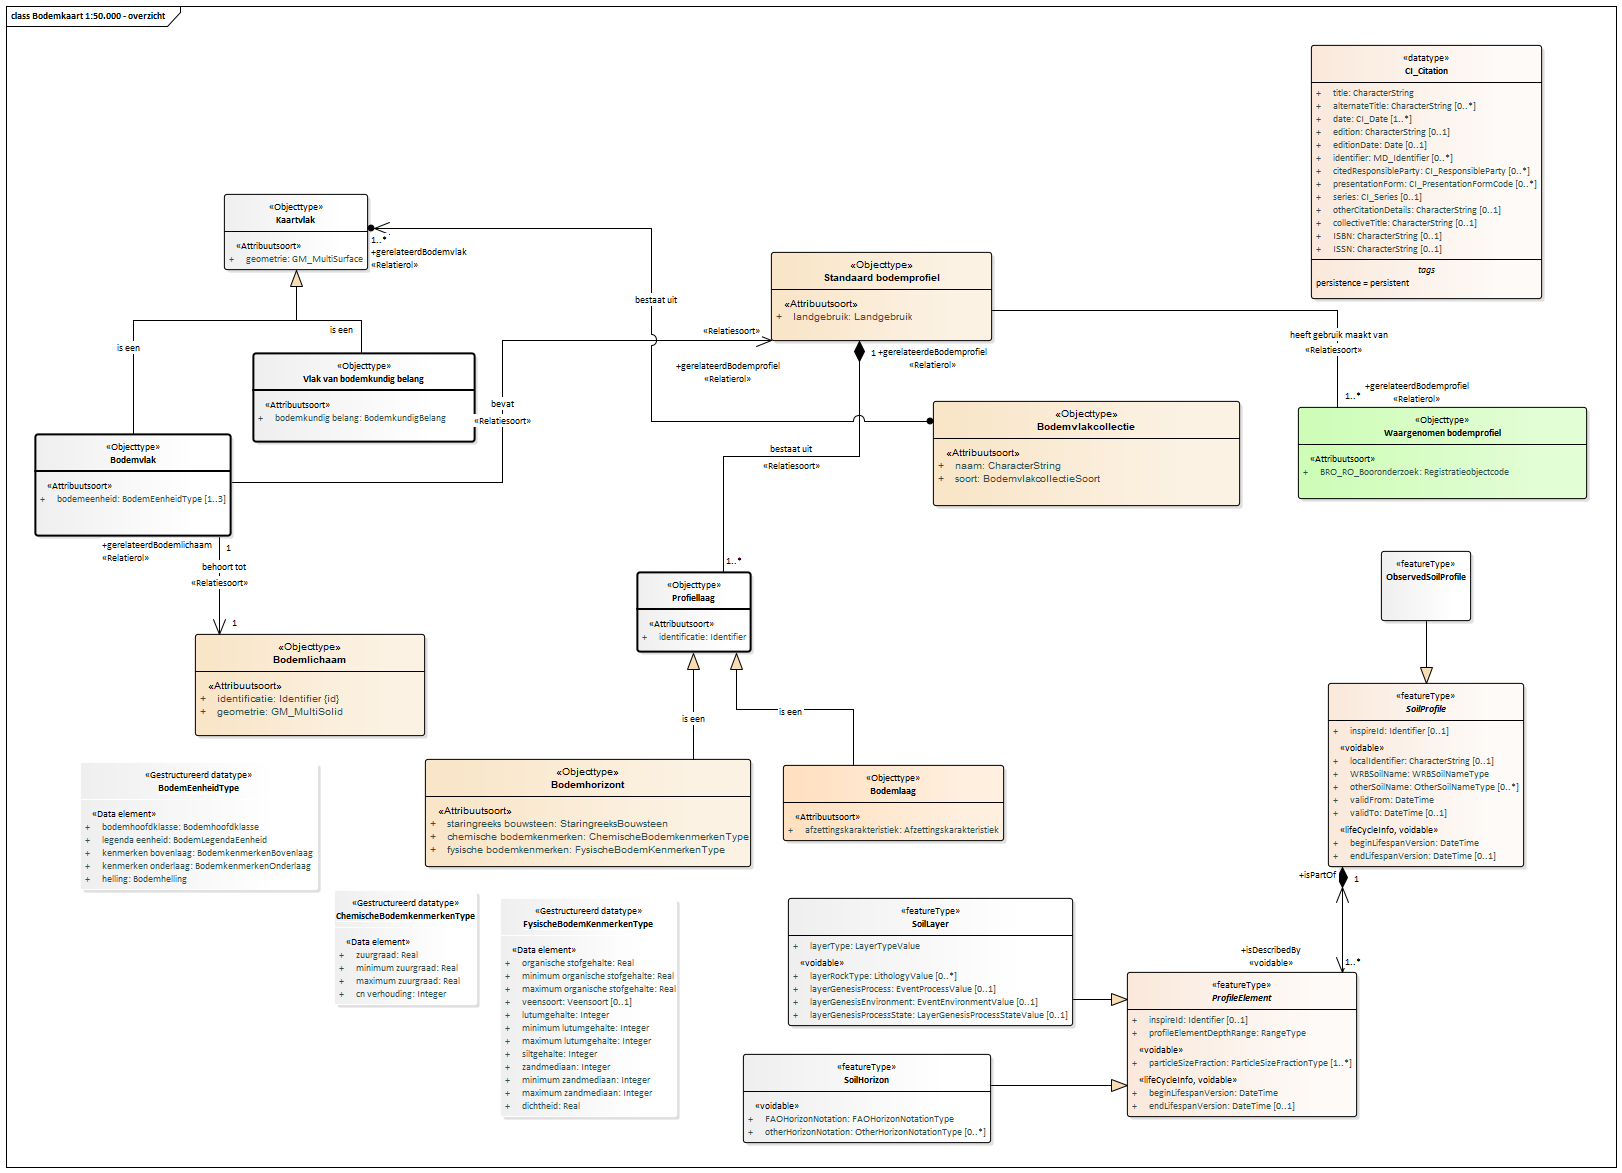
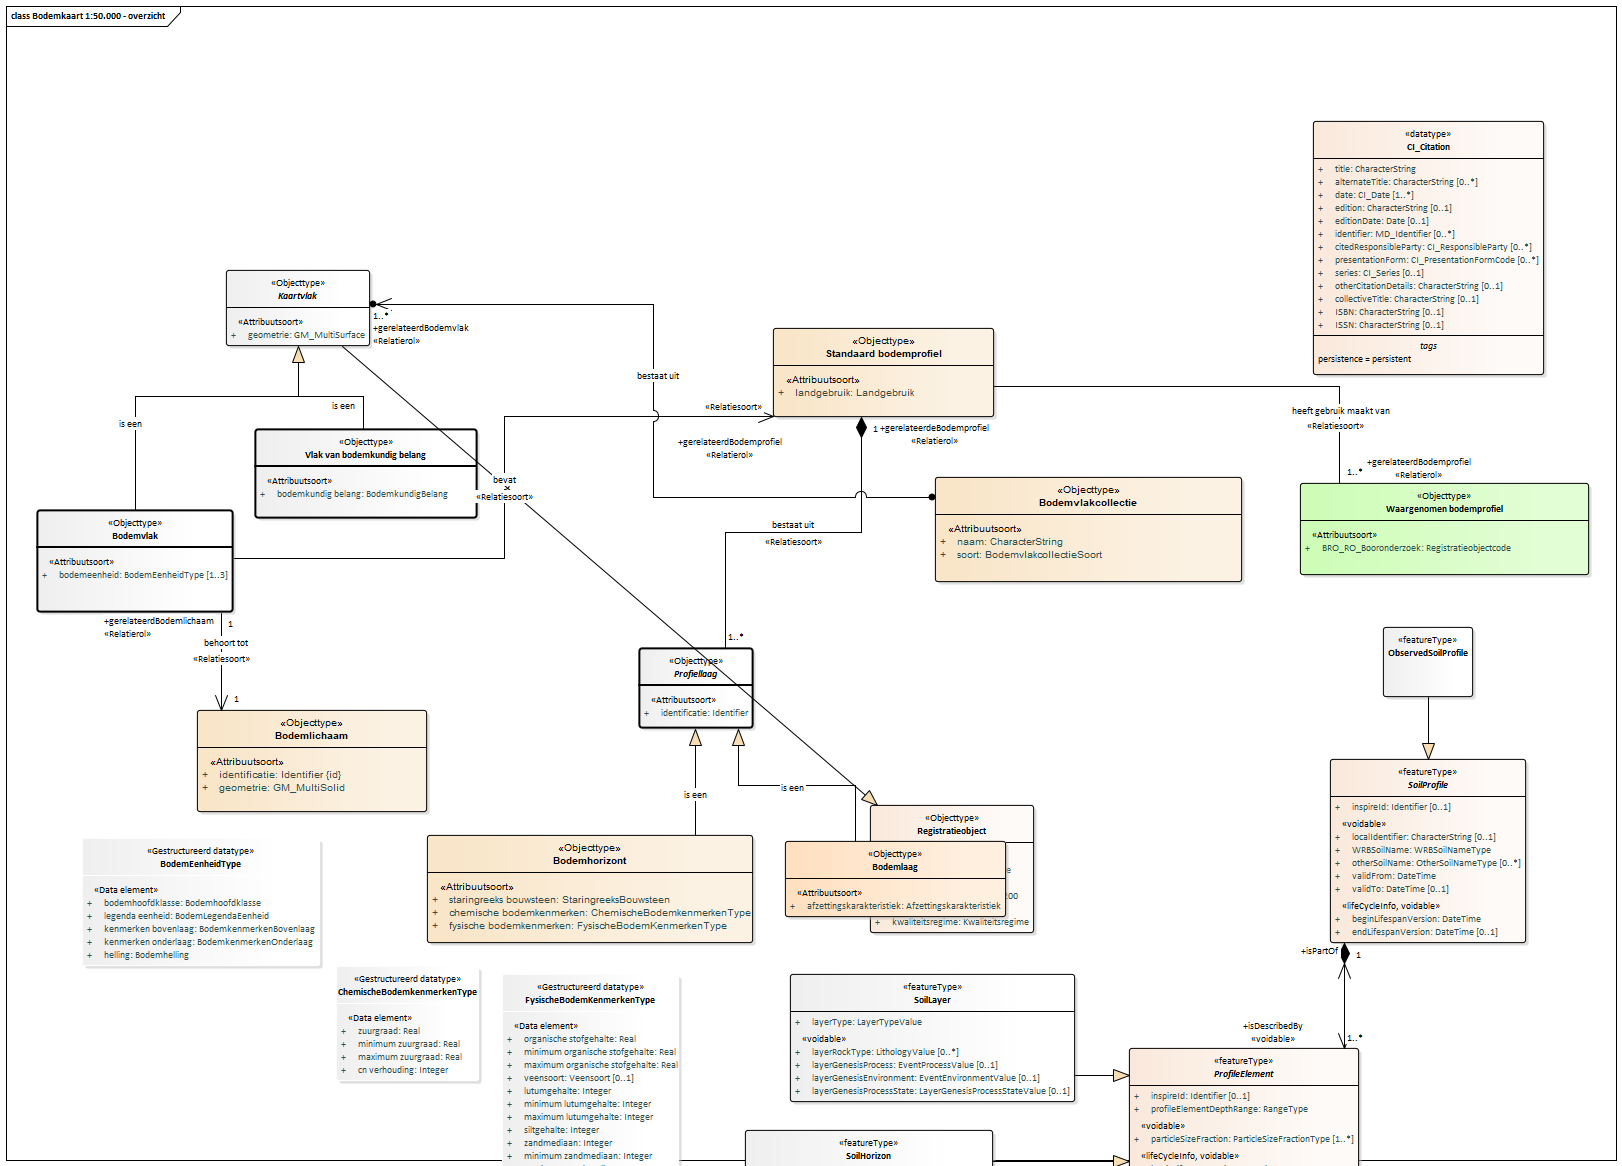
Conceptualmodel-BodemkaartSGM-1.0-1-20180806-20181113-123339

diff --git a/data/SGM-cat.html b/data/SGM-cat.html
@@ -1,26 +1,26 @@
 <h2>Catalogus</h2>
 <p class="note" title="Over deze catalogus">
    Deze catalogus is automatisch samengesteld op basis van het UML model 
-   "Bodemkaart (SGM)" door Imvertor 1.47.6 op November 13, 2018 at 11:04:22.
+   "Bodemkaart (SGM)" door Imvertor 1.47.6 op November 13, 2018 at 11:33:37.
    <br>
    Wanneer je technische fouten of onvolkomenheden aantreft, geef dit dan door aan <i></i> en geef de code 
-   <i>"Conceptualmodel-BodemkaartSGM-1.0-1-20180806-20181113-120424"</i> door. 
+   <i>"Conceptualmodel-BodemkaartSGM-1.0-1-20180806-20181113-123339"</i> door. 
    
 </p>
 <div class="imageinfo overview"><img src="data/Images/EAID_6F1DEB4D_0857_407f_96D1_68CEB4BA18C6.png" usemap="#imagemap-EAID_6F1DEB4D_0857_407f_96D1_68CEB4BA18C6"><map name="imagemap-EAID_6F1DEB4D_0857_407f_96D1_68CEB4BA18C6">
-      <area shape="rect" coords="224,270,368,194" alt="" href="#graph_EAID_99801C7D_8272_47b8_8892_0FFAA25819DC">
-      <area shape="rect" coords="253,442,475,353" alt="" href="#graph_EAID_FFE7D8E2_A953_49c6_AB62_7366945DDAB6">
-      <area shape="rect" coords="35,536,231,434" alt="" href="#graph_EAID_1A0B021D_CECB_4888_896B_045EDB9287FB">
-      <area shape="rect" coords="637,652,751,572" alt="" href="#graph_EAID_0A1B4464_10D3_4b80_8F56_64ECFF79B2BF">
-      <area shape="rect" coords="500,1117,677,898" alt="" href="#graph_EAID_7487B6E9_2821_4136_A6BD_45BCC55D08C4">
-      <area shape="rect" coords="334,1005,477,890" alt="" href="#graph_EAID_E7CD7773_A9F8_46e0_87D3_D98930256054">
-      <area shape="rect" coords="80,890,318,762" alt="" href="#graph_EAID_851EC4B0_D56E_4be9_A97B_2603C79F70A0">
-      <area shape="rect" coords="783,841,1004,765" alt="" href="#graph_EAID_D6147D13_A2CE_4eac_846C_D98CF51FC411">
-      <area shape="rect" coords="425,867,751,759" alt="" href="#graph_EAID_51B920BD_F7BA_420b_8BC2_F95666441BBE">
-      <area shape="rect" coords="771,341,992,252" alt="" href="#graph_EAID_F7554868_9447_4c85_91F2_85A060A04221">
-      <area shape="rect" coords="1298,499,1587,407" alt="" href="#graph_EAID_A1837B5E_AAEC_4abd_AD4E_490E18AC9B51">
-      <area shape="rect" coords="195,736,425,634" alt="" href="#graph_EAID_937AC71F_F454_49a3_8257_4ED3B68B25F1">
-      <area shape="rect" coords="933,506,1240,401" alt="" href="#graph_EAID_D299245E_D76A_4628_9E60_A0D563127253"></map><p><b>Bodemkaart 1:50.000 - overzicht</b></p>
+      <area shape="rect" coords="255,518,477,429" alt="" href="#graph_EAID_FFE7D8E2_A953_49c6_AB62_7366945DDAB6">
+      <area shape="rect" coords="37,612,233,510" alt="" href="#graph_EAID_1A0B021D_CECB_4888_896B_045EDB9287FB">
+      <area shape="rect" coords="639,728,753,648" alt="" href="#graph_EAID_0A1B4464_10D3_4b80_8F56_64ECFF79B2BF">
+      <area shape="rect" coords="502,1193,679,974" alt="" href="#graph_EAID_7487B6E9_2821_4136_A6BD_45BCC55D08C4">
+      <area shape="rect" coords="336,1081,479,966" alt="" href="#graph_EAID_E7CD7773_A9F8_46e0_87D3_D98930256054">
+      <area shape="rect" coords="82,966,320,838" alt="" href="#graph_EAID_851EC4B0_D56E_4be9_A97B_2603C79F70A0">
+      <area shape="rect" coords="785,917,1006,841" alt="" href="#graph_EAID_D6147D13_A2CE_4eac_846C_D98CF51FC411">
+      <area shape="rect" coords="427,943,753,835" alt="" href="#graph_EAID_51B920BD_F7BA_420b_8BC2_F95666441BBE">
+      <area shape="rect" coords="773,417,994,328" alt="" href="#graph_EAID_F7554868_9447_4c85_91F2_85A060A04221">
+      <area shape="rect" coords="1300,575,1589,483" alt="" href="#graph_EAID_A1837B5E_AAEC_4abd_AD4E_490E18AC9B51">
+      <area shape="rect" coords="226,346,370,270" alt="" href="#graph_EAID_99801C7D_8272_47b8_8892_0FFAA25819DC">
+      <area shape="rect" coords="197,812,427,710" alt="" href="#graph_EAID_937AC71F_F454_49a3_8257_4ED3B68B25F1">
+      <area shape="rect" coords="935,582,1242,477" alt="" href="#graph_EAID_D299245E_D76A_4628_9E60_A0D563127253"></map><p><b>Bodemkaart 1:50.000 - overzicht</b></p>
 </div>
 <div class="imageinfo overview"><img src="data/Images/EAID_2793BB12_5218_46ab_B17A_9F4C5C392B77.png" usemap="#imagemap-EAID_2793BB12_5218_46ab_B17A_9F4C5C392B77"><map name="imagemap-EAID_2793BB12_5218_46ab_B17A_9F4C5C392B77">
       <area shape="rect" coords="44,266,194,220" alt="" href="#graph_EAID_803E52C2_E581_448f_A721_83925F3746D1">
@@ -969,6 +969,23 @@
             <tr>
                <th>Rol naam met kardinaliteiten</th>
                <th>Definitie</th>
+            </tr>
+            <tr>
+               <td>
+                  Kaartvlak
+                  is specialisatie van
+                  
+                  <a class="link" href="#global_class_BROCommon_Registratieobject">Registratieobject</a>
+                  
+                  
+               </td>
+               <td>Het geheel van gegevens dat betrekking heeft op het recht van een bepaalde partij
+                  een bepaalde mijnbouwactiviteit in een bepaald deel van de ondergrond van Nederland
+                  en zijn Exclusieve Economische Zone uit te voeren, en dat onder de verantwoordelijkheid
+                  van het ministerie van Economische Zaken en Klimaat aan de registerbeheerder van de
+                  basisregistratie ondergrond is aangeleverd en door de laatste in de registratie ondergrond
+                  is opgenomen.
+               </td>
             </tr>
             <tr>
                <td>
